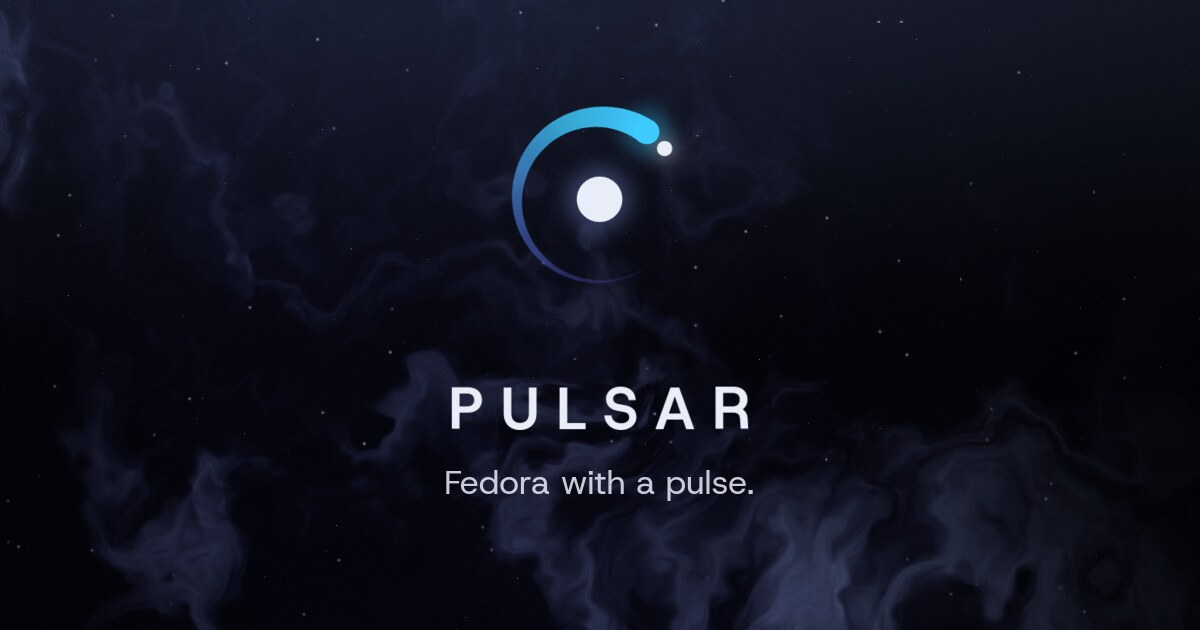
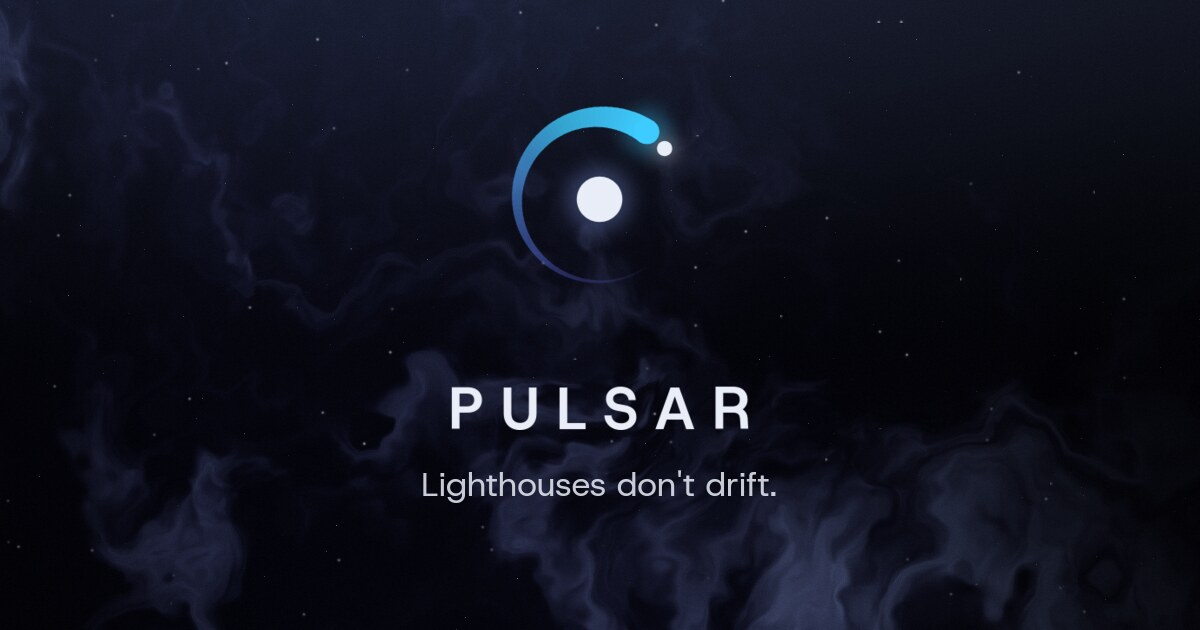
tagline: "Lighthouses don't drift."
The pulsar IS a cosmic lighthouse, and an immutable image doesn't
config-drift -- three words that carry the metaphor and the pitch.
"Fedora with a pulse" retired. Site hero, titles, og tags, and the
OG card updated.

Changed region(s): [[0.3392, 0.754, 0.6475, 0.8143]]

diff --git a/index.html b/index.html
@@ -3,18 +3,18 @@
 <head>
 <meta charset="utf-8">
 <meta name="viewport" content="width=device-width, initial-scale=1">
-<title>Pulsar — Fedora with a pulse</title>
+<title>Pulsar — lighthouses don't drift</title>
 <meta name="description" content="Pulsar: an immutable Fedora Silverblue spin tuned for gaming and development. Built, signed, and attested in the cloud.">
 <!-- og:image/og:url must be absolute; crawlers resolve nothing relative.
      Keep in sync with the live domain. -->
 <meta property="og:type" content="website">
-<meta property="og:title" content="Pulsar — Fedora with a pulse">
+<meta property="og:title" content="Pulsar — lighthouses don't drift">
 <meta property="og:description" content="An immutable Fedora Silverblue spin tuned for gaming and development. Built, signed, and attested in the cloud.">
 <meta property="og:url" content="https://pulsar.arclight.digital/">
 <meta property="og:image" content="https://pulsar.arclight.digital/assets/og.jpg">
 <meta property="og:image:width" content="1200">
 <meta property="og:image:height" content="630">
-<meta property="og:image:alt" content="The Pulsar mark and wordmark over the silk wallpaper: Fedora with a pulse.">
+<meta property="og:image:alt" content="The Pulsar mark and wordmark over the silk wallpaper: lighthouses don't drift.">
 <meta name="twitter:card" content="summary_large_image">
 <link rel="icon" href="assets/favicon.svg">
 <script>
@@ -38,7 +38,7 @@ try { const t = localStorage.getItem('pulsar-theme');
   <div class="hero-inner">
     <img class="mark" data-mark src="assets/pulsar-mark.svg" alt="" width="140" height="140">
     <h1 class="wordmark">PULSAR</h1>
-    <p class="tagline">Fedora with a pulse.</p>
+    <p class="tagline">Lighthouses don&rsquo;t drift.</p>
     <p class="sub">An immutable Silverblue spin tuned for gaming and development —
        built, signed, and attested in the cloud. Your machine never compiles a thing.</p>
     <p class="srclink"><a href="https://github.com/arclight-digital/pulsar">Browse the source on GitHub →</a></p>
